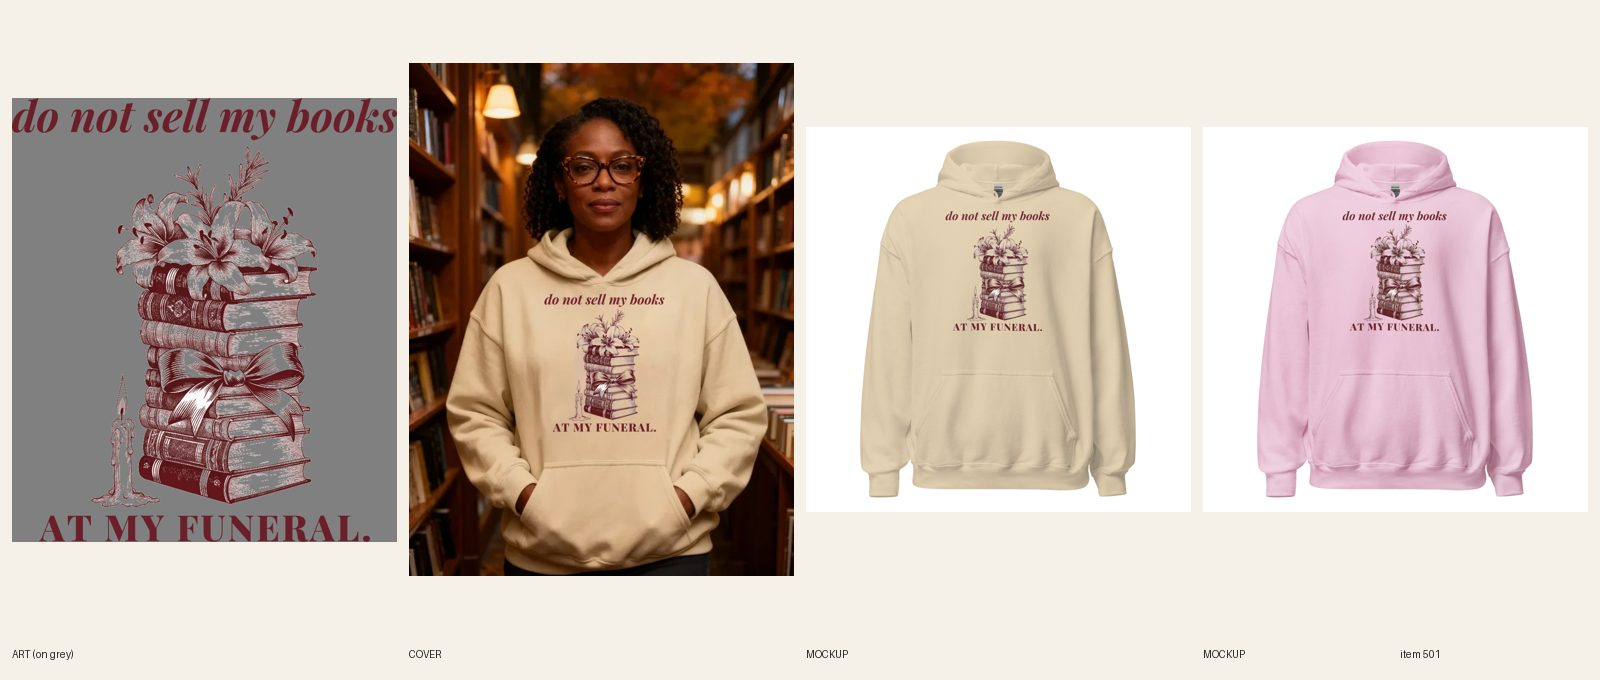
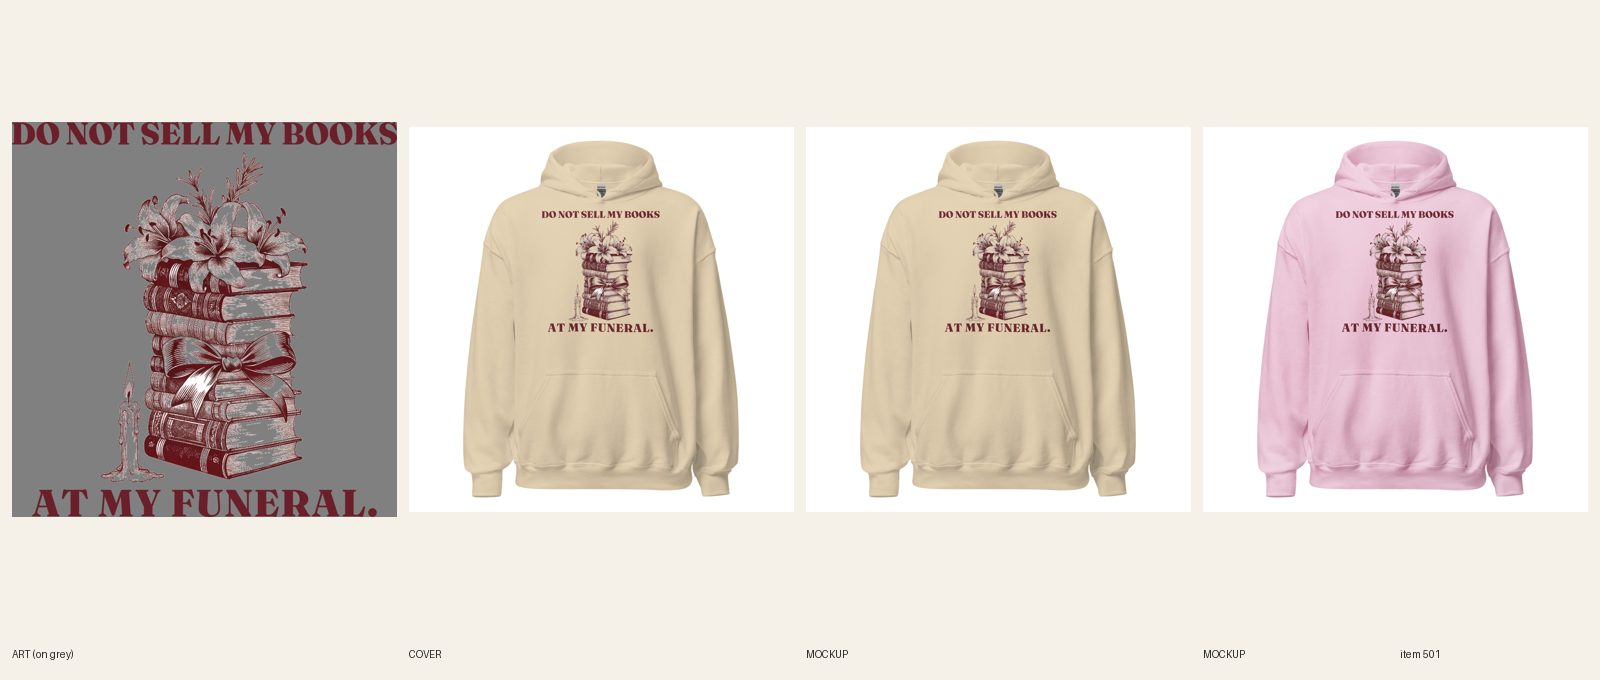
[C] review 501 Do Not Sell My Books hoodie (type redo)
Claude-Session: https://claude.ai/code/session_01FbxfzHiHisdSQN5AE35HWJ

Changed region(s): [[0.0, 0.0926, 0.5, 0.8647], [0.8438, 0.3088, 0.9062, 0.4941], [0.5938, 0.3088, 0.6562, 0.4941]]

diff --git a/docs/pipeline/501-bookish-hoodie-do-not-sell-my-books.md b/docs/pipeline/501-bookish-hoodie-do-not-sell-my-books.md
@@ -1,4 +1,4 @@
-status: BUILDING [C] 2026-10-19 21:22 UTC
+status: REVIEW
 lane: C
 type: twin
 id: 501
@@ -32,3 +32,4 @@ kd: 52
 - 2026-10-18 03:06 UTC builder [C]: Sync 12/12. REVIEW. Sheet docs/review/501.jpg.
 - 2026-10-18 03:16 UTC director: LIVE. Sheet seen: REDO fixed: AT MY FUNERAL. now one bold line, reads on Sand and Light Pink; woman in a bookstore. ACTIVE + Online Store, Headless, Google & YouTube; audit --handle PASS (0 warn).
 - 2026-10-18 17:22 UTC director: QUALITY RESET grade B (type only), REDO. The product stays ACTIVE (same handle, URL, title keyword). Keep the line "do not sell my books / AT MY FUNERAL." and the art. 1. Type: Headline is a lowercase italic serif, not heavy; one maroon color, low contrast. 2. Quality reset type bar (docs/backlog/quality-reset.md, 'The new bar'): headline at least 90% of the art width, heavy, colors pulled from the art; second line at least 45% of the headline's height, never a thin script on a dark or mid garment; use the lettering as a shape (arch, stacked lockup, words breaking into the art), not a plain bar above and a script line below; no font used on more than 1 in 6 of the last 30 designs. 3. New print file means a new cover per R6.10 and a fresh review sheet (R7.7). While quality-reset.md says PAUSED, only lane A builds, and only the samples step 2 names.
+- 2026-10-19 21:29 UTC builder [C]: REDO 501 type only (B grade), port of #481's lockup: DO NOT SELL MY BOOKS Fraunces Black one line at 97% of art width + AT MY FUNERAL. Fraunces Black, burgundy #6b1f2a, same art at 50% of canvas, print aspect 1.03 (ends well above the pouch). FW 1700 TOP 0, Printful file 1089909739, 12/12 relinked, back logo kept. Burgundy ink only, no cream fills, so one file for Sand and Light Pink. 2 fronts replaced in place; phone-size read ok. Story and first FAQ lettering updated; no R8.3 opener (line one names the rules, funeral, book club). Plain product shot (handle already in retired-covers.json). audit --handle PASS 0 warn. fal $0. Sheet docs/review/501.jpg.

diff --git a/docs/intake-log.md b/docs/intake-log.md
@@ -1,5 +1,4 @@
 RUNNING lane B since 2026-10-19 21:28 UTC
-RUNNING lane C since 2026-10-19 21:22 UTC
 RUNNING lane E since 2026-10-19 21:14 UTC
 2026-10-19 21:23 UTC — [E] Builder run: redid #558 Women's Cat Not My Turn zip hoodie (type only: Bowlby One orange + Anton pink full art width, same art, back BW 1650, file 1089900083, 12/12 resynced, 4 mockups replaced in place, copy updated, plain product shot). REVIEW. fal $0.
 RUNNING director since 2026-10-19 21:11 UTC
@@ -1329,3 +1328,5 @@ for the record, but treat this one as current for these 3 products.
 2026-10-18 07:03 UTC — [B] REVIEW #585 Men's Drummer The Neighbors Love Me hoodie (DRAFT, synced 12/12).
 2026-10-18 07:03 UTC — [B] Run summary: REVIEW #467 #473 #585 (syncs re-run) and #542 cover REDO. Remaining lane B cold-weather READY: #385 half zip (needs hand re-letter, skipped). Lock released.
 2026-10-18 10:25 UTC — [E] Lock released. REDOs 555 559 577 534 536 are in REVIEW (all synced and verified). READY 608-613, 628-633 not started: fal daily cap reached ($15.98/16), new art impossible until 00:00 UTC.
+
+2026-10-19 21:29 UTC — [C] Builder run: redid #501 Women's Do Not Sell My Books hoodie (type only, port of #481: Fraunces Black one-line headline 97% width + bold AT MY FUNERAL., same art, FW 1700 TOP 0, file 1089909739, 12/12 relinked, 2 fronts replaced in place, copy updated, plain product shot). REVIEW. fal $0. Lock released.
